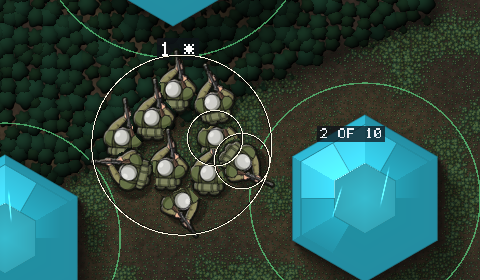
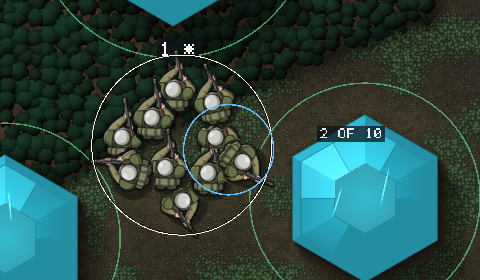
Split preview: one accent-blue ring a group, not a white ring a soldier
Look's review of #893: white rings round each soldier crossed each other
and meant selected (art direction rule 6). The picked soldiers are grouped
with controls::ring_groups, as the selection is, and each group drawn once
with ring_thin in theme::ACCENT. Still updated.

Claude-Session: https://claude.ai/code/session_01TFcbG6QDoL8GEP4Pr617wg

diff --git a/src/bin/larder-world/draw.rs b/src/bin/larder-world/draw.rs
@@ -1739,11 +1739,14 @@ impl App {
         // would take, ringed, and "2 of 9" at the cursor.
         let going = self.split_preview();
         if !going.is_empty() {
-            // The selection ring's size (`Controls::marks`), one a soldier.
+            // Grouped as the selection rings are (`Controls::marks`), so the
+            // ones that go read as one ring and rings never cross (art
+            // direction rule 6), in the accent blue, as white already
+            // means selected (Look's review of #893).
             let ring = (r * self.camera.zoom * 0.95).max(2.0) + 2.0;
-            for &k in &going {
-                let s = &g.soldiers[k];
-                self.marks.selected((s.x, s.y), ring);
+            let at: Vec<(f32, f32)> = going.iter().map(|&k| (g.soldiers[k].x, g.soldiers[k].y)).collect();
+            for (c, px) in slime_mould::world::controls::ring_groups(&at, ring / self.camera.zoom.max(1e-6), self.controls.ring_link) {
+                self.marks.ring_thin(c, px * self.camera.zoom, 1.5, theme::ACCENT);
             }
             if let (Some((k, n)), Some(at)) = (self.split_count(), self.cursor_world()) {
                 let label = format!("{k} of {n}");
